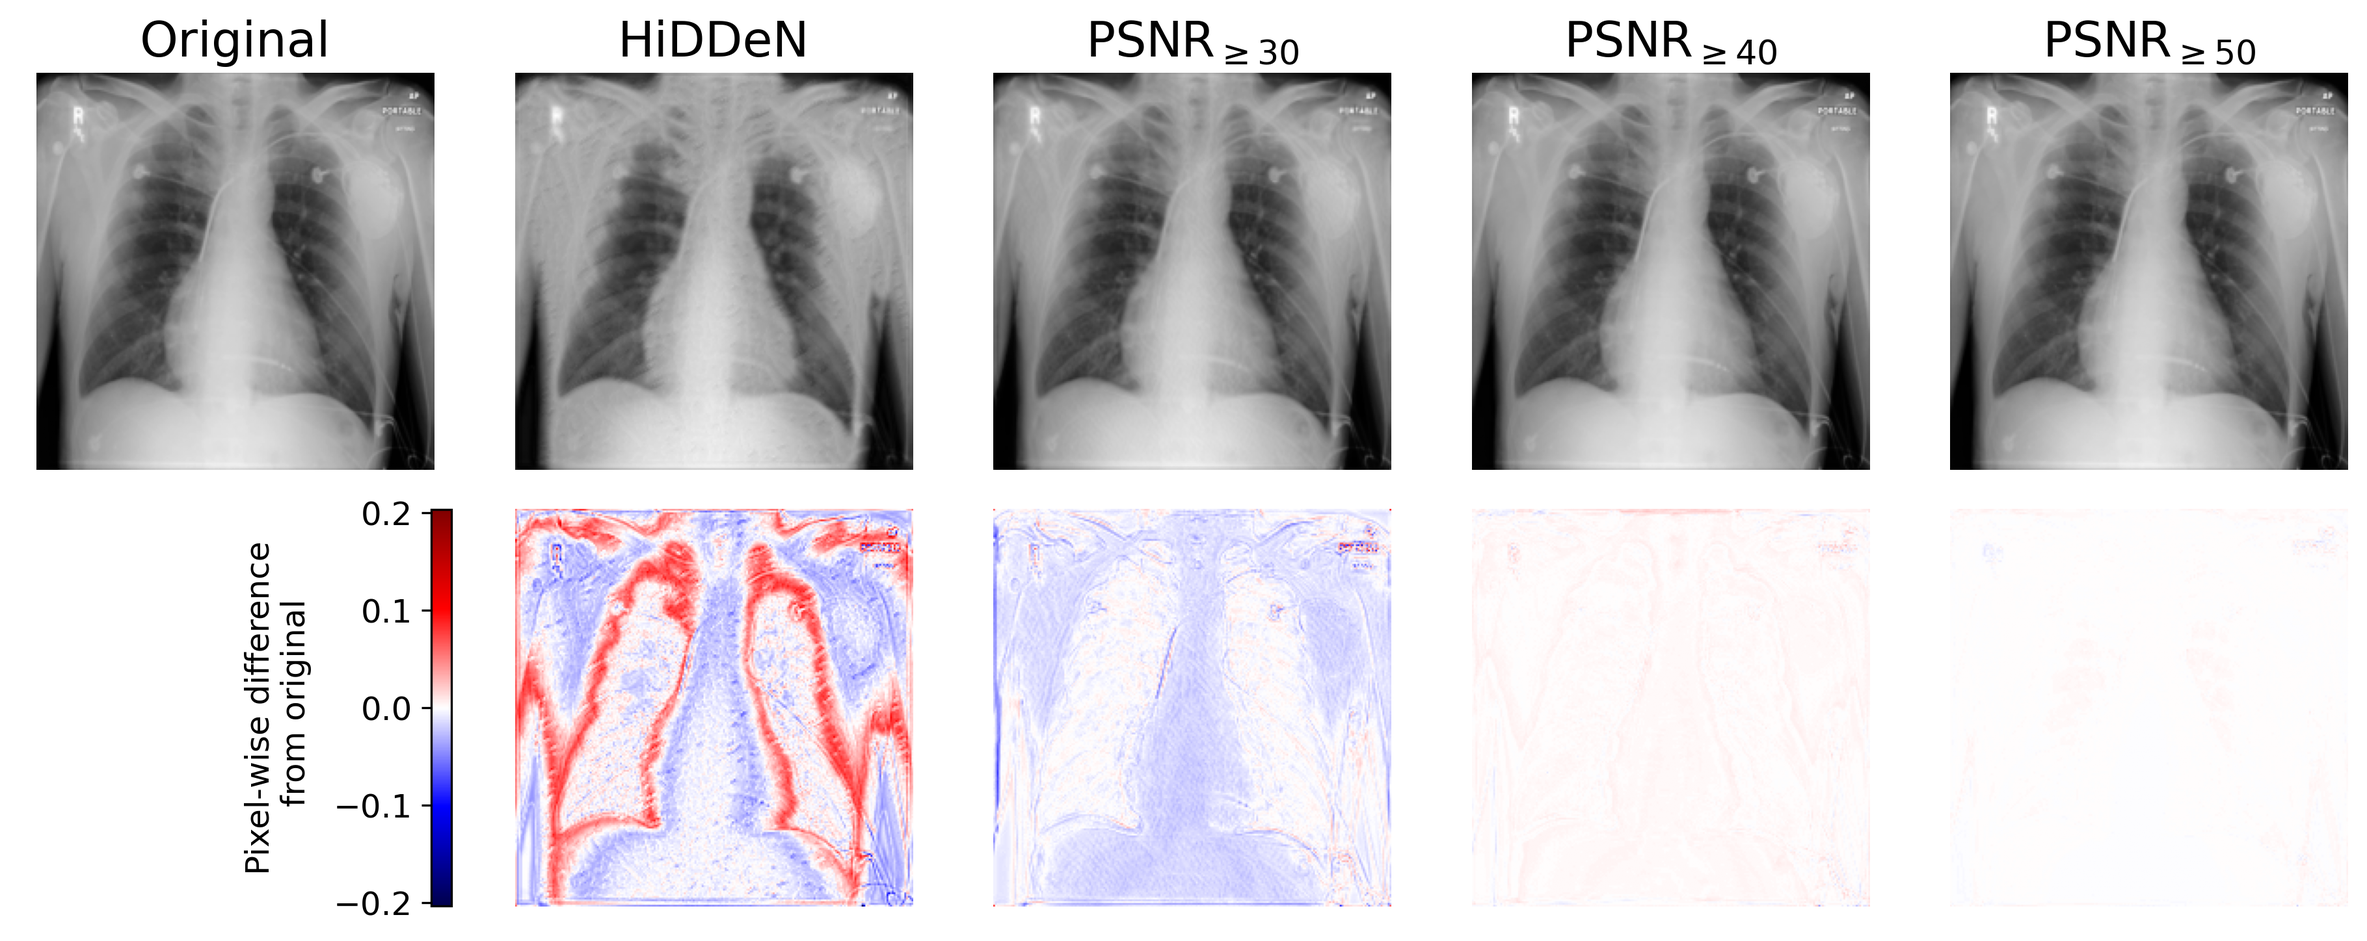
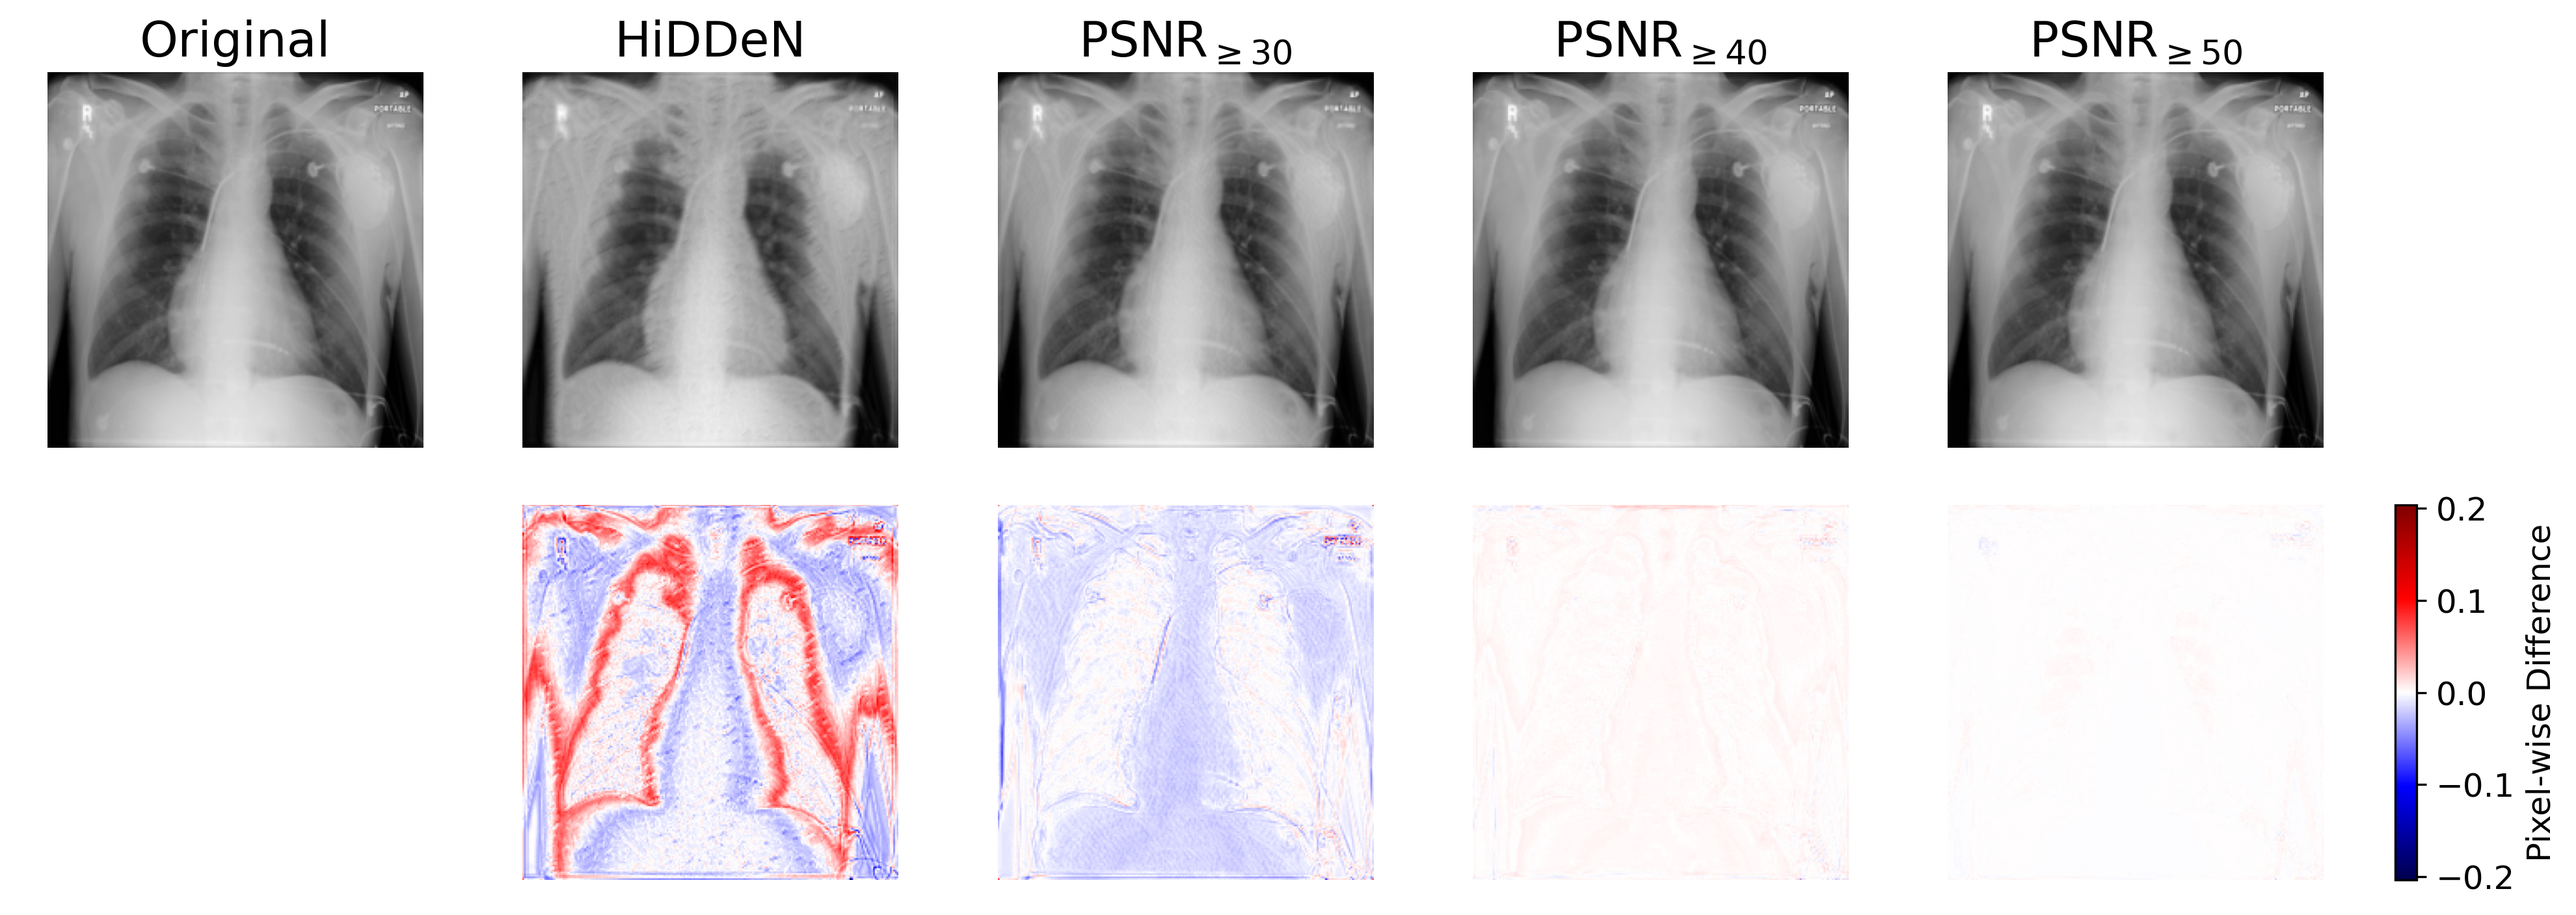
Update watermarking experiments image and text in README.md.

diff --git a/README.md b/README.md
@@ -15,7 +15,7 @@ The two experiments reported in the paper are available to run:
   <img src="MNIST_EncorderDecoder/architecture.png" alt="Architecture of the encoder decoder architecture used in the experiment with MNIST" width="480">
 </p>
 
-- Training [HiDDeN](https://arxiv.org/abs/1807.09937) on [ChestX-ray8](https://arxiv.org/abs/1705.02315) dataset, imposing that the watermarked image is similar to the cover image in terms of the PSNR
+- Medical image watermarking employing [HiDDeN](https://arxiv.org/abs/1807.09937) on [ChestX-ray8](https://arxiv.org/abs/1705.02315) dataset, imposing an explicit penalty constraint based on Peak Signal-to-Noise Ratio (PSNR) to preserve the perceptual quality of the watermarked image.
 <p align="center">
   <img src="HiDDeN/plots_hidden/watermark0.png" alt="Example of watermakred images with HiDDeN using the sequential penalty method" width="600">
 </p>
